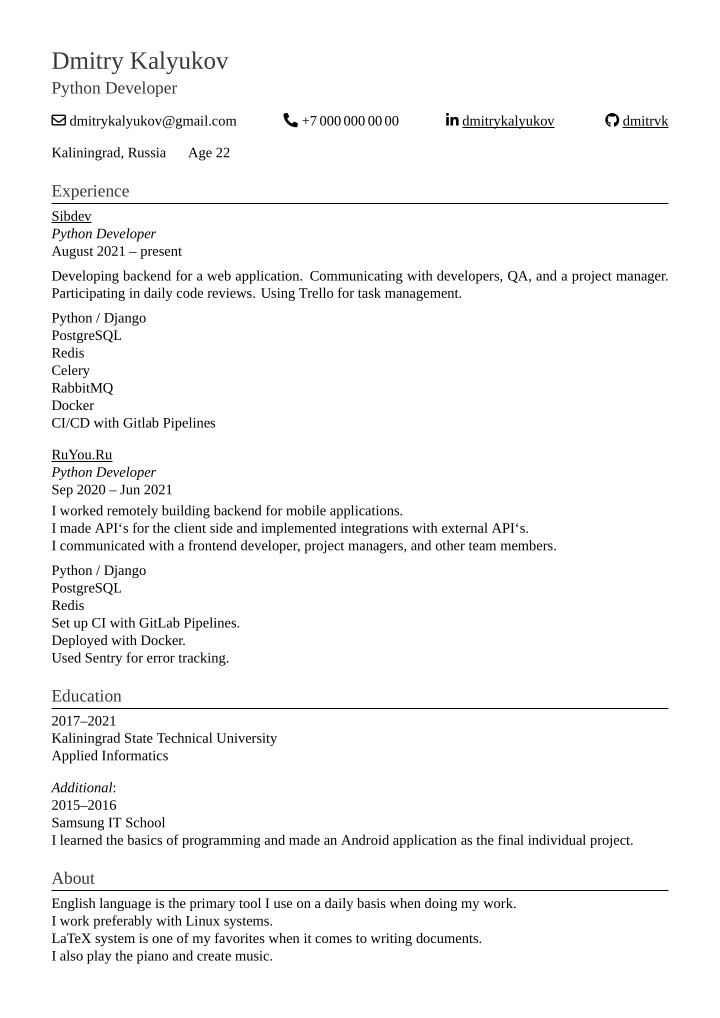
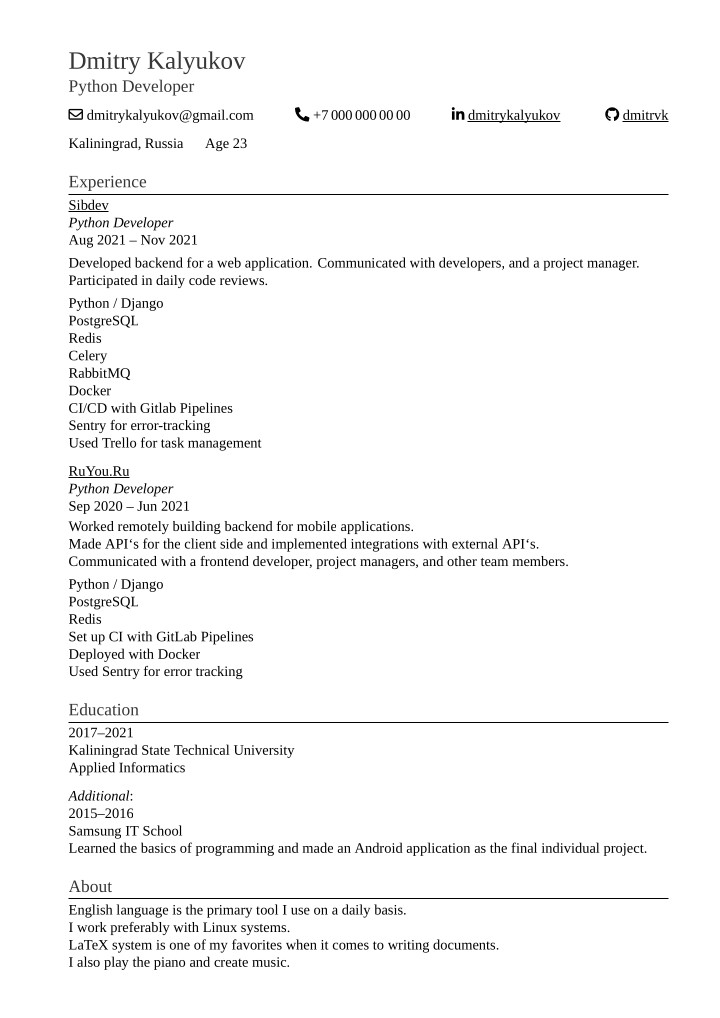
Update resume

diff --git a/resume.tex b/resume.tex
@@ -8,7 +8,13 @@
 \usepackage {titlesec}
 \usepackage {xcolor}
 
-\geometry {a4paper, margin=15mm}
+\geometry {
+    a4paper,
+    lmargin=20mm,
+    tmargin=15mm,
+    rmargin=15mm,
+    bmargin=15mm,
+}
 \hypersetup {hidelinks}
 \parindent 0mm
 \setmainfont {Liberation Serif}
@@ -46,7 +52,7 @@
 
 \bigskip
 
-Kaliningrad, Russia \quad~Age 22
+Kaliningrad, Russia \quad~Age 23
 
 \section {Experience}
 
@@ -54,14 +60,13 @@ Kaliningrad, Russia \quad~Age 22
 
 \emph {Python Developer}
 
-August 2021 -- present
+Aug 2021 -- Nov 2021
 
 \medskip
 
-Developing backend for a web application.
-Communicating with developers, QA, and a project manager.
-Participating in daily code reviews.
-Using Trello for task management.
+Developed backend for a web application.
+Communicated with developers, and a project manager. \\
+Participated in daily code reviews.
 
 \medskip
 
@@ -71,7 +76,9 @@ Redis \\
 Celery \\
 RabbitMQ \\
 Docker \\
-CI/CD with Gitlab Pipelines
+CI/CD with Gitlab Pipelines \\
+Sentry for error-tracking \\
+Used Trello for task management
 
 \bigskip
 
@@ -83,21 +90,20 @@ Sep 2020 -- Jun 2021
 
 \smallskip
 
-I worked remotely building backend for mobile applications.\\
-I made API`s for the client side
-and implemented integrations with external API`s.\\
-I communicated
-with a frontend developer, project managers, and other team members.
+Worked remotely building backend for mobile applications. \\
+Made API`s for the client side and
+implemented integrations with external API`s. \\
+Communicated with a frontend developer,
+project managers, and other team members.
 
 \medskip
 
-Python / Django \\ PostgreSQL \\ Redis
-
-Set up CI with GitLab Pipelines.
-
-Deployed with Docker.
-
-Used Sentry for error tracking.
+Python / Django \\
+PostgreSQL \\
+Redis \\
+Set up CI with GitLab Pipelines \\
+Deployed with Docker \\
+Used Sentry for error tracking
 
 \section {Education}
 
@@ -115,18 +121,16 @@ Applied Informatics
 
 Samsung IT School
 
-I learned the basics of programming
-and made an Android application as the final individual project.
+Learned the basics of programming and
+made an Android application as the final individual project.
 
 \section {About}
 
-English language is the primary tool
-I use on a daily basis when doing my work.
+English language is the primary tool I use on a daily basis.
 
 I work preferably with Linux systems.
 
-LaTeX system is one of my favorites
-when it comes to writing documents.
+LaTeX system is one of my favorites when it comes to writing documents.
 
 I also play the piano and create music.
 
